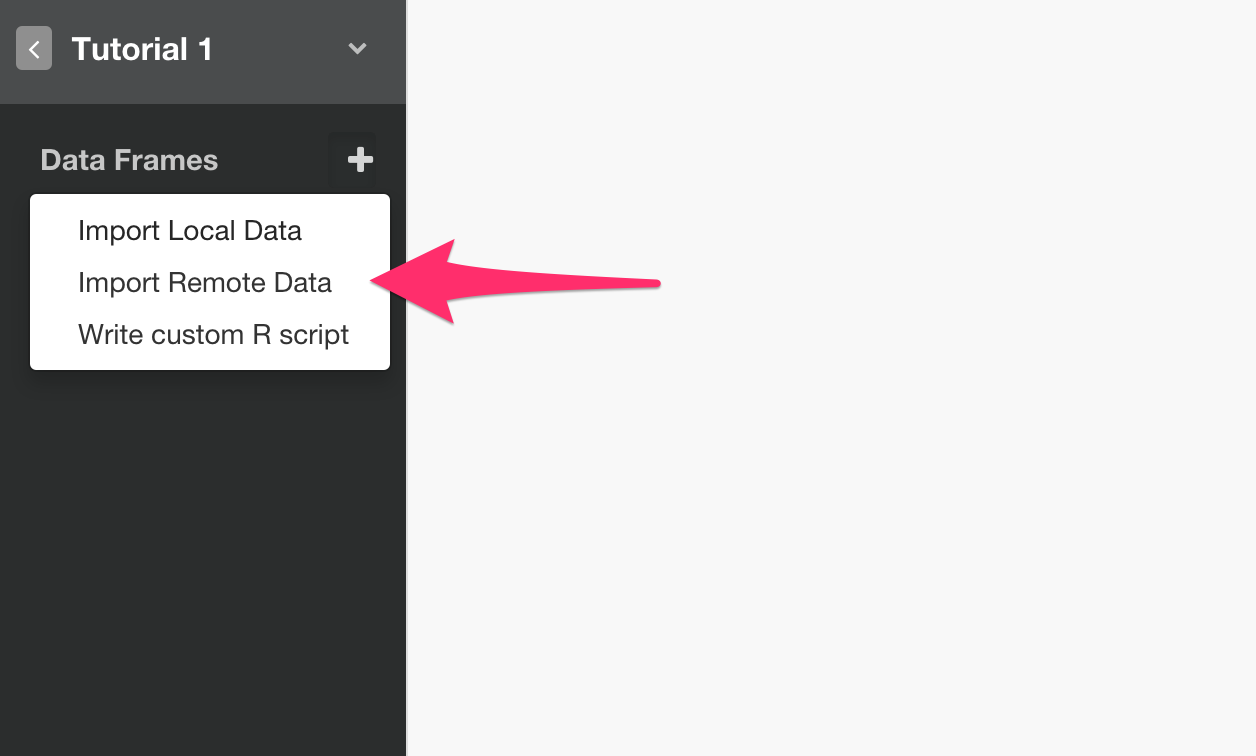
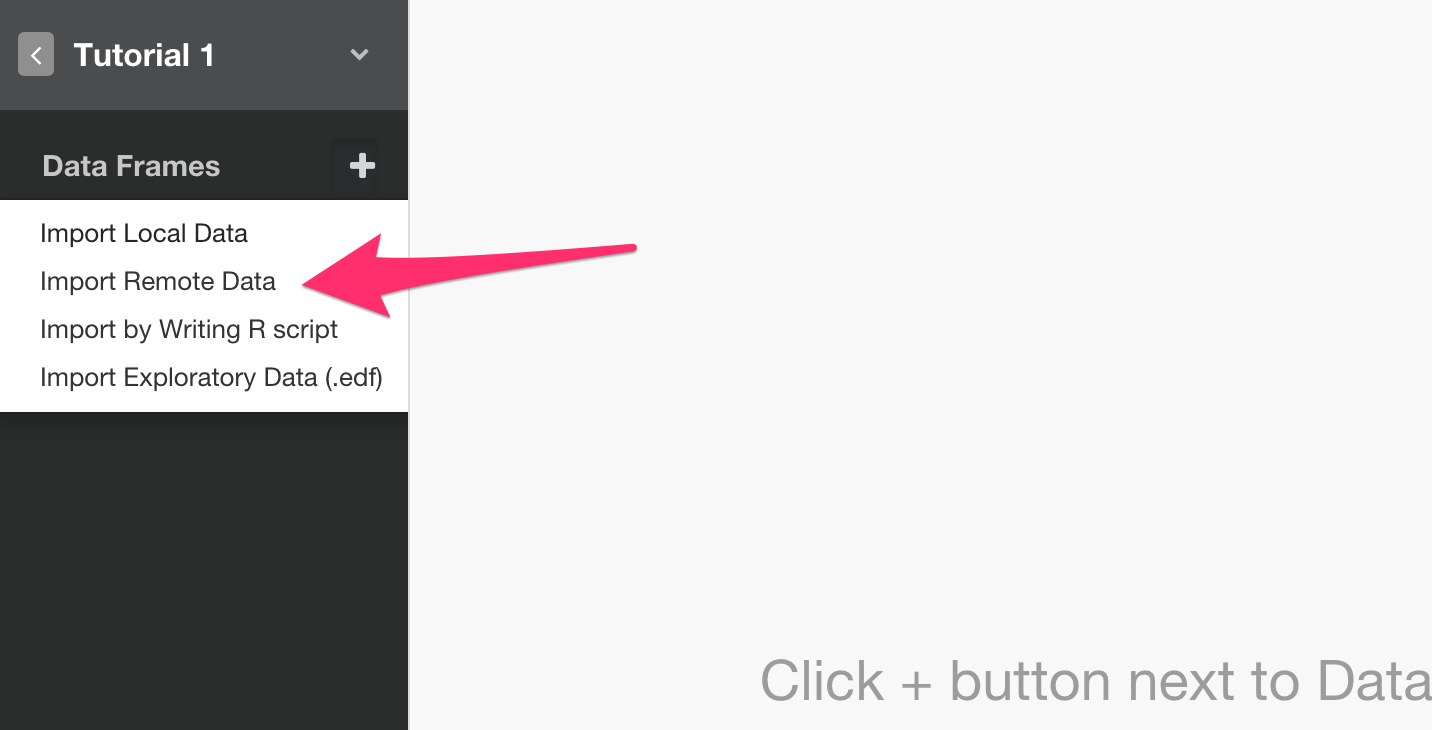
Update mysql and aurora document

Changed region(s): [[0.0, 0.0, 0.5279, 1.0], [0.5279, 0.9041, 1.0, 0.9644]]

diff --git a/import/mysql.md b/import/mysql.md
@@ -2,42 +2,36 @@
 
 You can quickly import data from your MySQL Database into Exploratory.
 
-## 1. Open MySQL Import dialog
+## 1. Create a Connection to use
+
+Create a connection following [this instruction](connection.html).
+
+## 2. Open MySQL Import dialog
 
 Select 'Import Remote Data' from Add New Data Frame menu.
 
 ![](images/import-remote-data.png)
 
-Click MySQL DB to select.
+Click MySQL.
 
 ![](images/mysql.png)
 
-## 2. Set Parameters
+## 3. Choose connection
 
-Type your new data frame name
+1. Put data frame name.
 
-Type the following your MySQL DB connection related parameter values.
+2. Select connection from left dialog box.
 
-- Host name
-- Port number
-- Database name
-- Username
-- Password
-- Number of Rows
-- Query
+3. Write a query in the input field.
 
-![](images/mysql2.png)
+4. Click "Get Data" button. Then you will see the preview of the data.
 
-## 3. Preview and Import
+5. Click "Save" button to import.
 
-Click Preview button to see the data back from your MySQL db.
-
-![](images/mysql2.png)
-
-If it looks ok, then you can click 'Import' to import the data into Exploratory.
+![](images/mysql-connection.png)
 
 ## 4. AWS Security Group Setup (Only for Amazon RDS)
 
-![](images/mysql3.png)
+![](images/aws-security-group.png)
 
 If you are using Amazon RDS as your MySQL database, and encounter a database connection error, please go to AWS console and make sure you added your client PC's IP address to your DB Security Group associated with the MySQL database instance.

diff --git a/import/connection.md b/import/connection.md
@@ -1,0 +1,38 @@
+# Connection
+
+You can register database connection configuration.
+
+## 1. Open Connection dialog
+
+Open your configuration dropdown and click "Connection" there.
+
+![](images/connection-open.png)
+
+Click "Add" to create a new connection or "Edit" to modify existing connection.
+
+![](images/connection-edit.png)
+
+## 2. Set parameters
+
+Set parameters for the database.
+
+![](images/connection-parameters.png)
+
+You can check the parameters from "Test Connection" button.
+You will see the result on top of the dialog.
+
+![](images/connection-test.png)
+
+If you are okay with the configuration, click "Add" Button.
+
+![](images/connection-add.png)
+
+You will see the connection from the dialog.
+
+![](images/connection-added.png)
+
+## 3. Import data from connection.
+
+You can choose those registered connection from Remote Data Frame Import dialog.
+
+![](images/import-remote-data.png)

diff --git a/import/aurora.md b/import/aurora.md
@@ -1,0 +1,37 @@
+# Aurora Data Import
+
+You can quickly import data from your Amazon Aurora Database into Exploratory.
+
+## 1. AWS Security Group Setup
+
+Make sure you added your client PC's IP address to your DB Security Group associated with the Aurora database instance.
+
+![](images/aws-security-group.png)
+
+## 2. Create a Connection to use
+
+Create a connection following [this instruction](connection.html).
+
+## 3. Open Aurora Import dialog
+
+Select 'Import Remote Data' from Add New Data Frame menu.
+
+![](images/import-remote-data.png)
+
+Click Amazon Aurora.
+
+![](images/aurora.png)
+
+## 4. Choose connection
+
+1. Put data frame name.
+
+2. Select connection from left box in the dialog.
+
+3. Write a query in the input field.
+
+4. Click "Get Data" button. Then you will see the preview of the data.
+
+5. Click "Save" button to import.
+
+![](images/aurora-connection.png)
